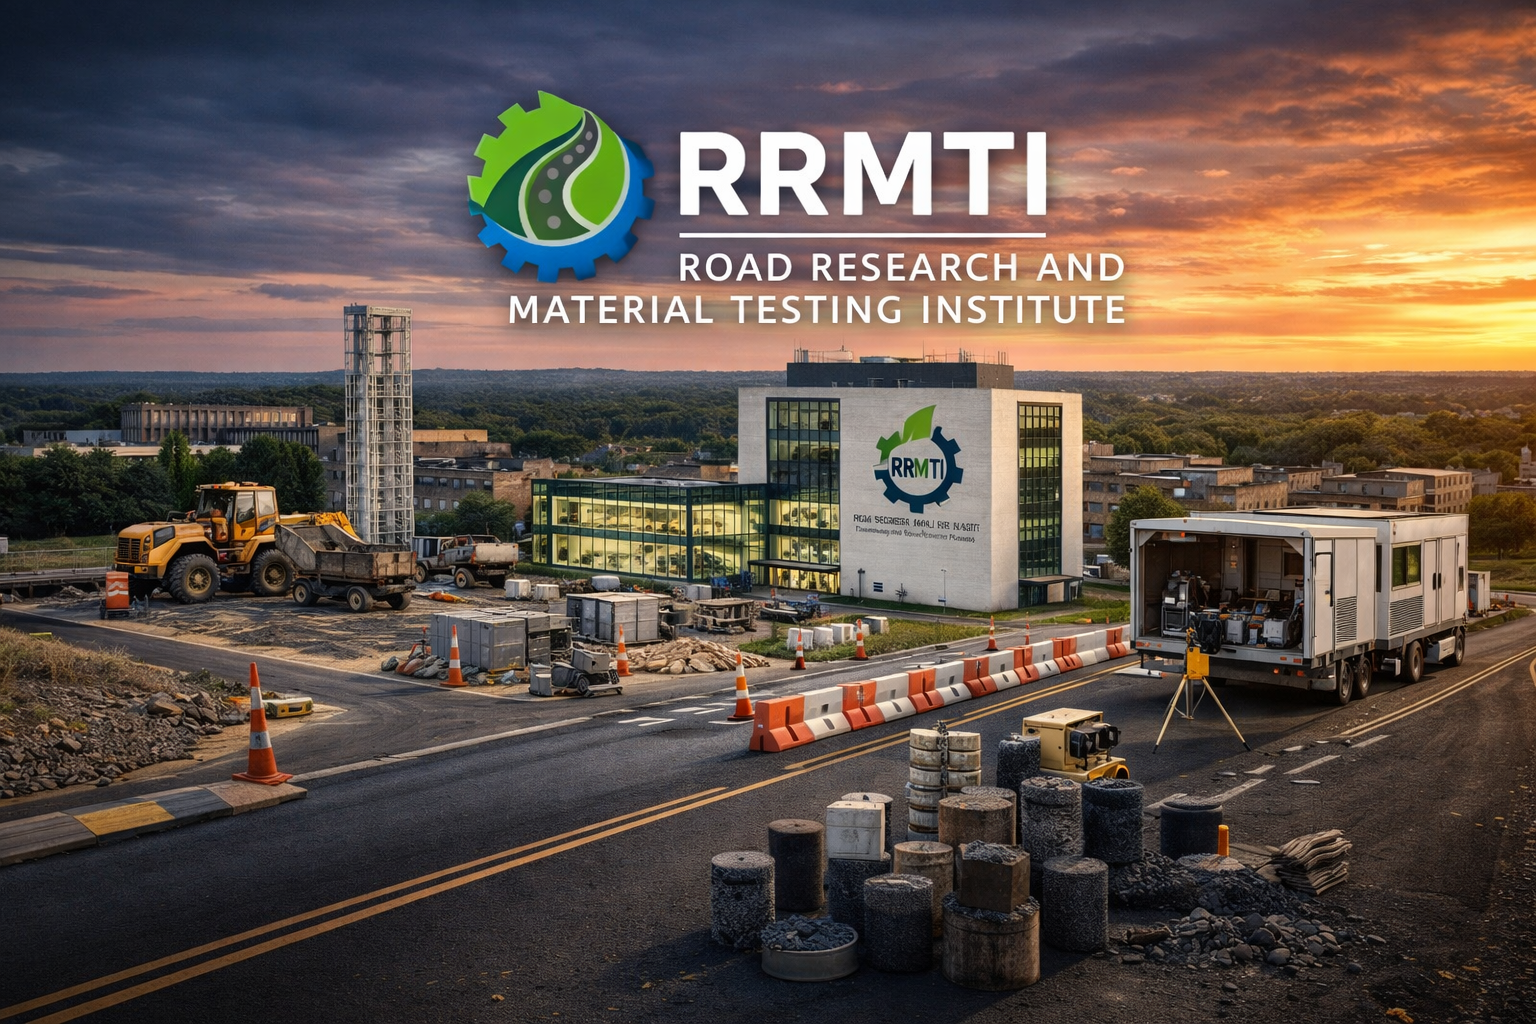
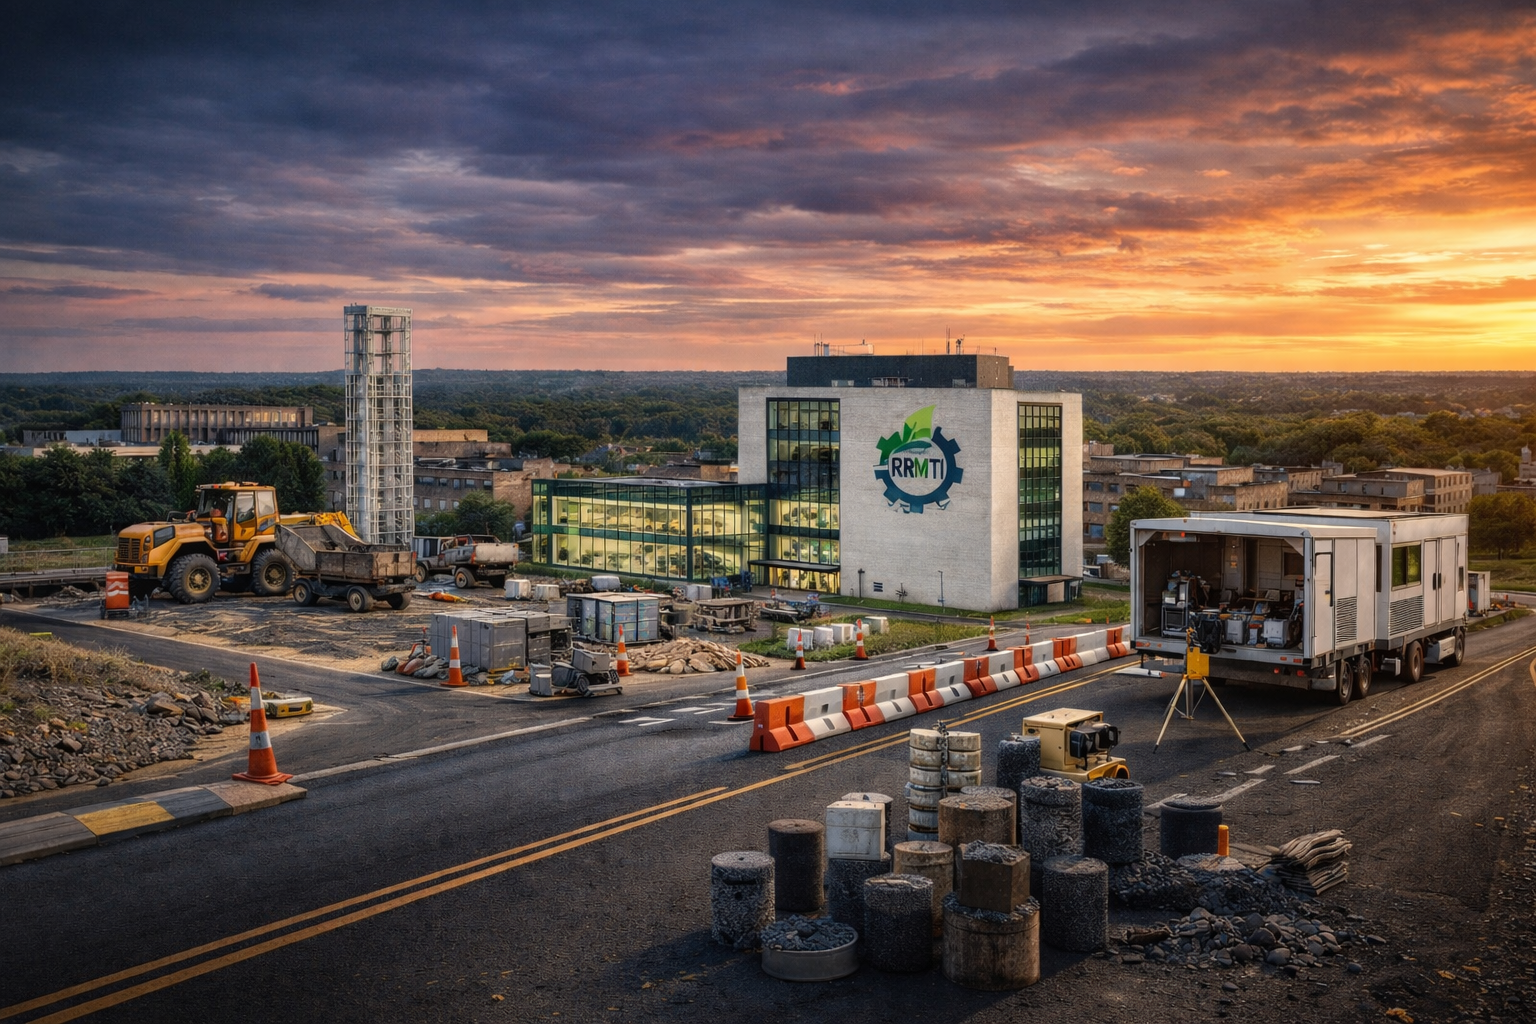
Updatesss

diff --git a/index.php b/index.php
@@ -21,7 +21,7 @@
             display: flex;
             justify-content: center;
             align-items: center;
-            background: linear-gradient(rgba(0, 0, 0, 0.5), rgba(0, 0, 0, 0.5)), url('public/bg.png') no-repeat center center/cover;
+            background: linear-gradient(rgba(0, 0, 0, 0.5), rgba(0, 0, 0, 0.5)), url('public/rrmti-bg.png') no-repeat center center/cover;
             font-family: 'Segoe UI', Tahoma, Geneva, Verdana, sans-serif;
             overflow: hidden;
             animation: fadeIn 2s ease-in-out;
@@ -409,7 +409,7 @@
 
                 // Redirect after 2 seconds
                 setTimeout(() => {
-                    window.location.href = "http://cnw.urbanunit.gov.pk/cnw_brs/"; // <<< Change link here
+                    window.location.href = "https://ict.urbanunit.gov.pk/cnw_rrmti_v0/"; // <<< Change link here
                 }, 20000);
 
             }, 15000);
